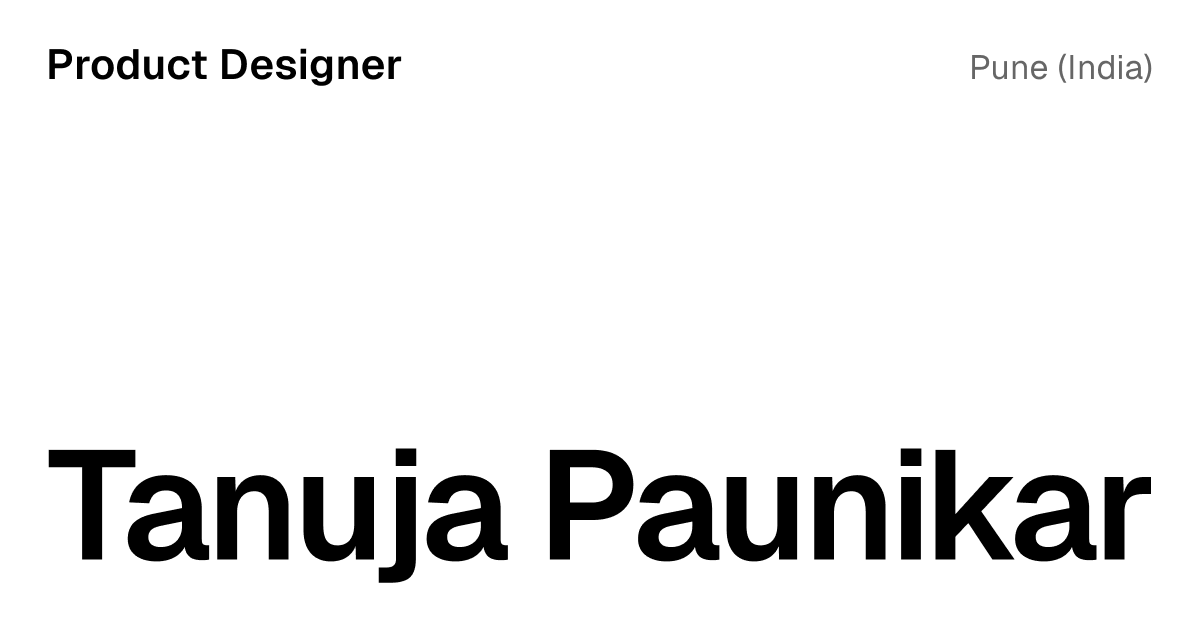
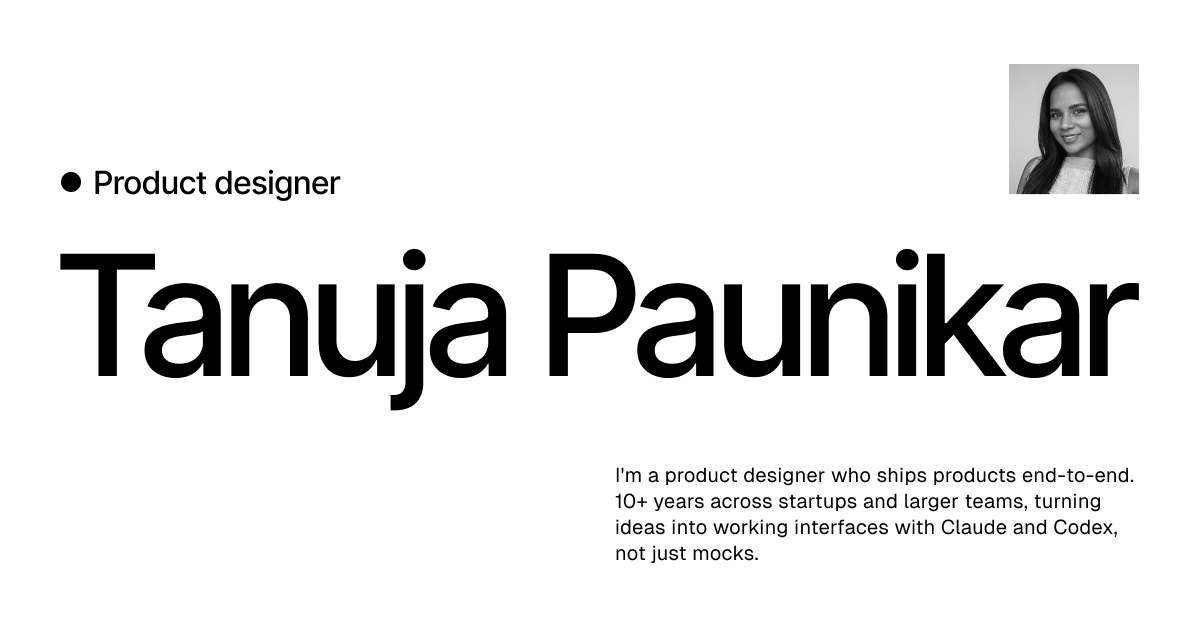
Update Open Graph image and bump cache version to v3

diff --git a/src/app/layout.tsx b/src/app/layout.tsx
@@ -7,8 +7,8 @@ const title = "Tanuja Paunikar — Portfolio";
 const description =
   "Product Designer shaping interfaces that make complex things feel simple.";
 const ogImage = {
-  url: "/images/og-tanujapaunikar.png?v=2",
-  secureUrl: `${siteUrl}/images/og-tanujapaunikar.png?v=2`,
+  url: "/images/og-tanujapaunikar.png?v=3",
+  secureUrl: `${siteUrl}/images/og-tanujapaunikar.png?v=3`,
   width: 1200,
   height: 630,
   alt: "Tanuja Paunikar — Product Designer",
@@ -37,7 +37,7 @@ export const metadata: Metadata = {
     description,
     images: [
       {
-        url: "/images/og-tanujapaunikar.png?v=2",
+        url: "/images/og-tanujapaunikar.png?v=3",
         alt: "Tanuja Paunikar — Product Designer",
       },
     ],
